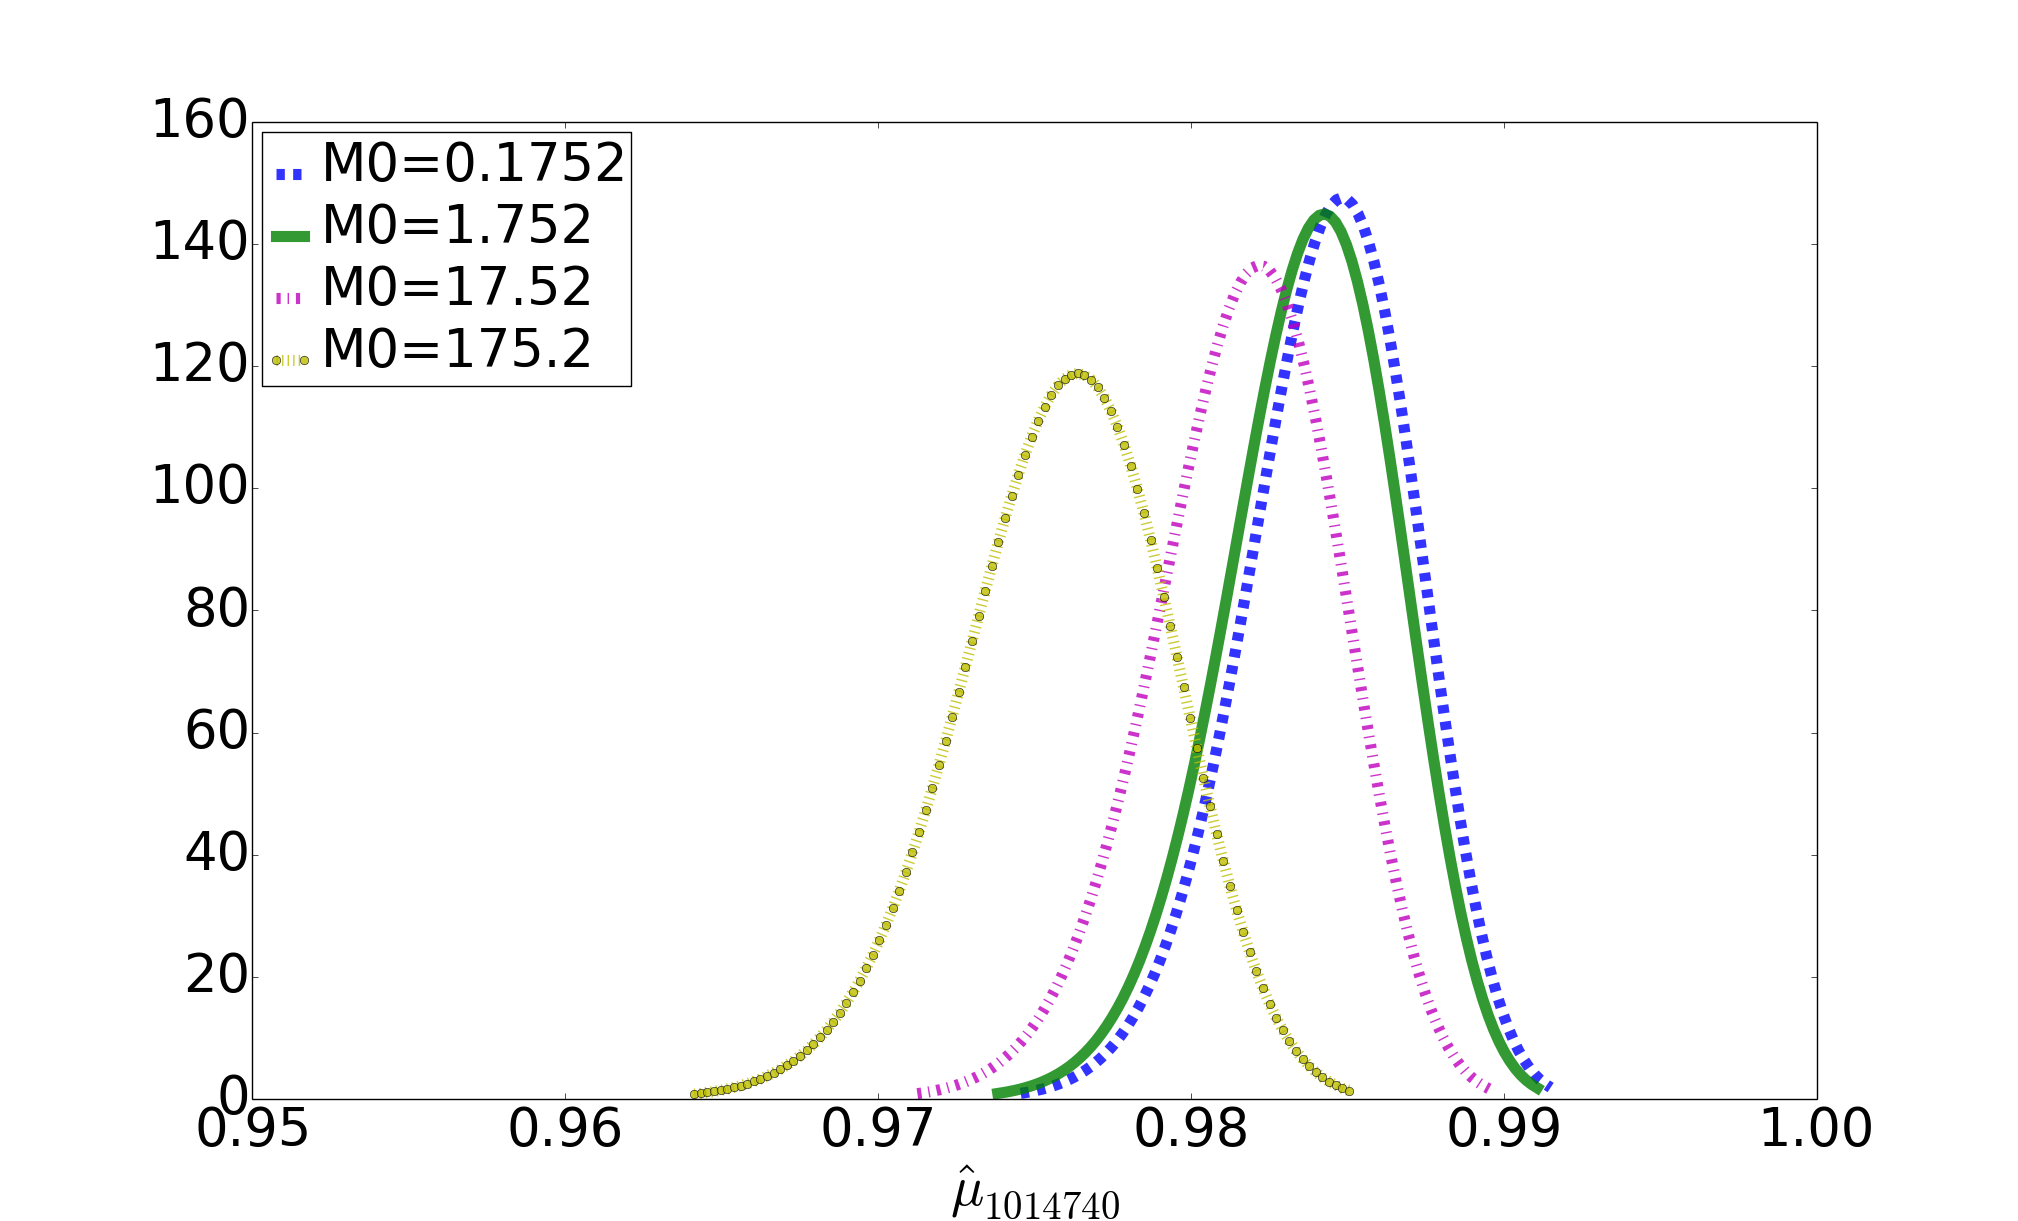
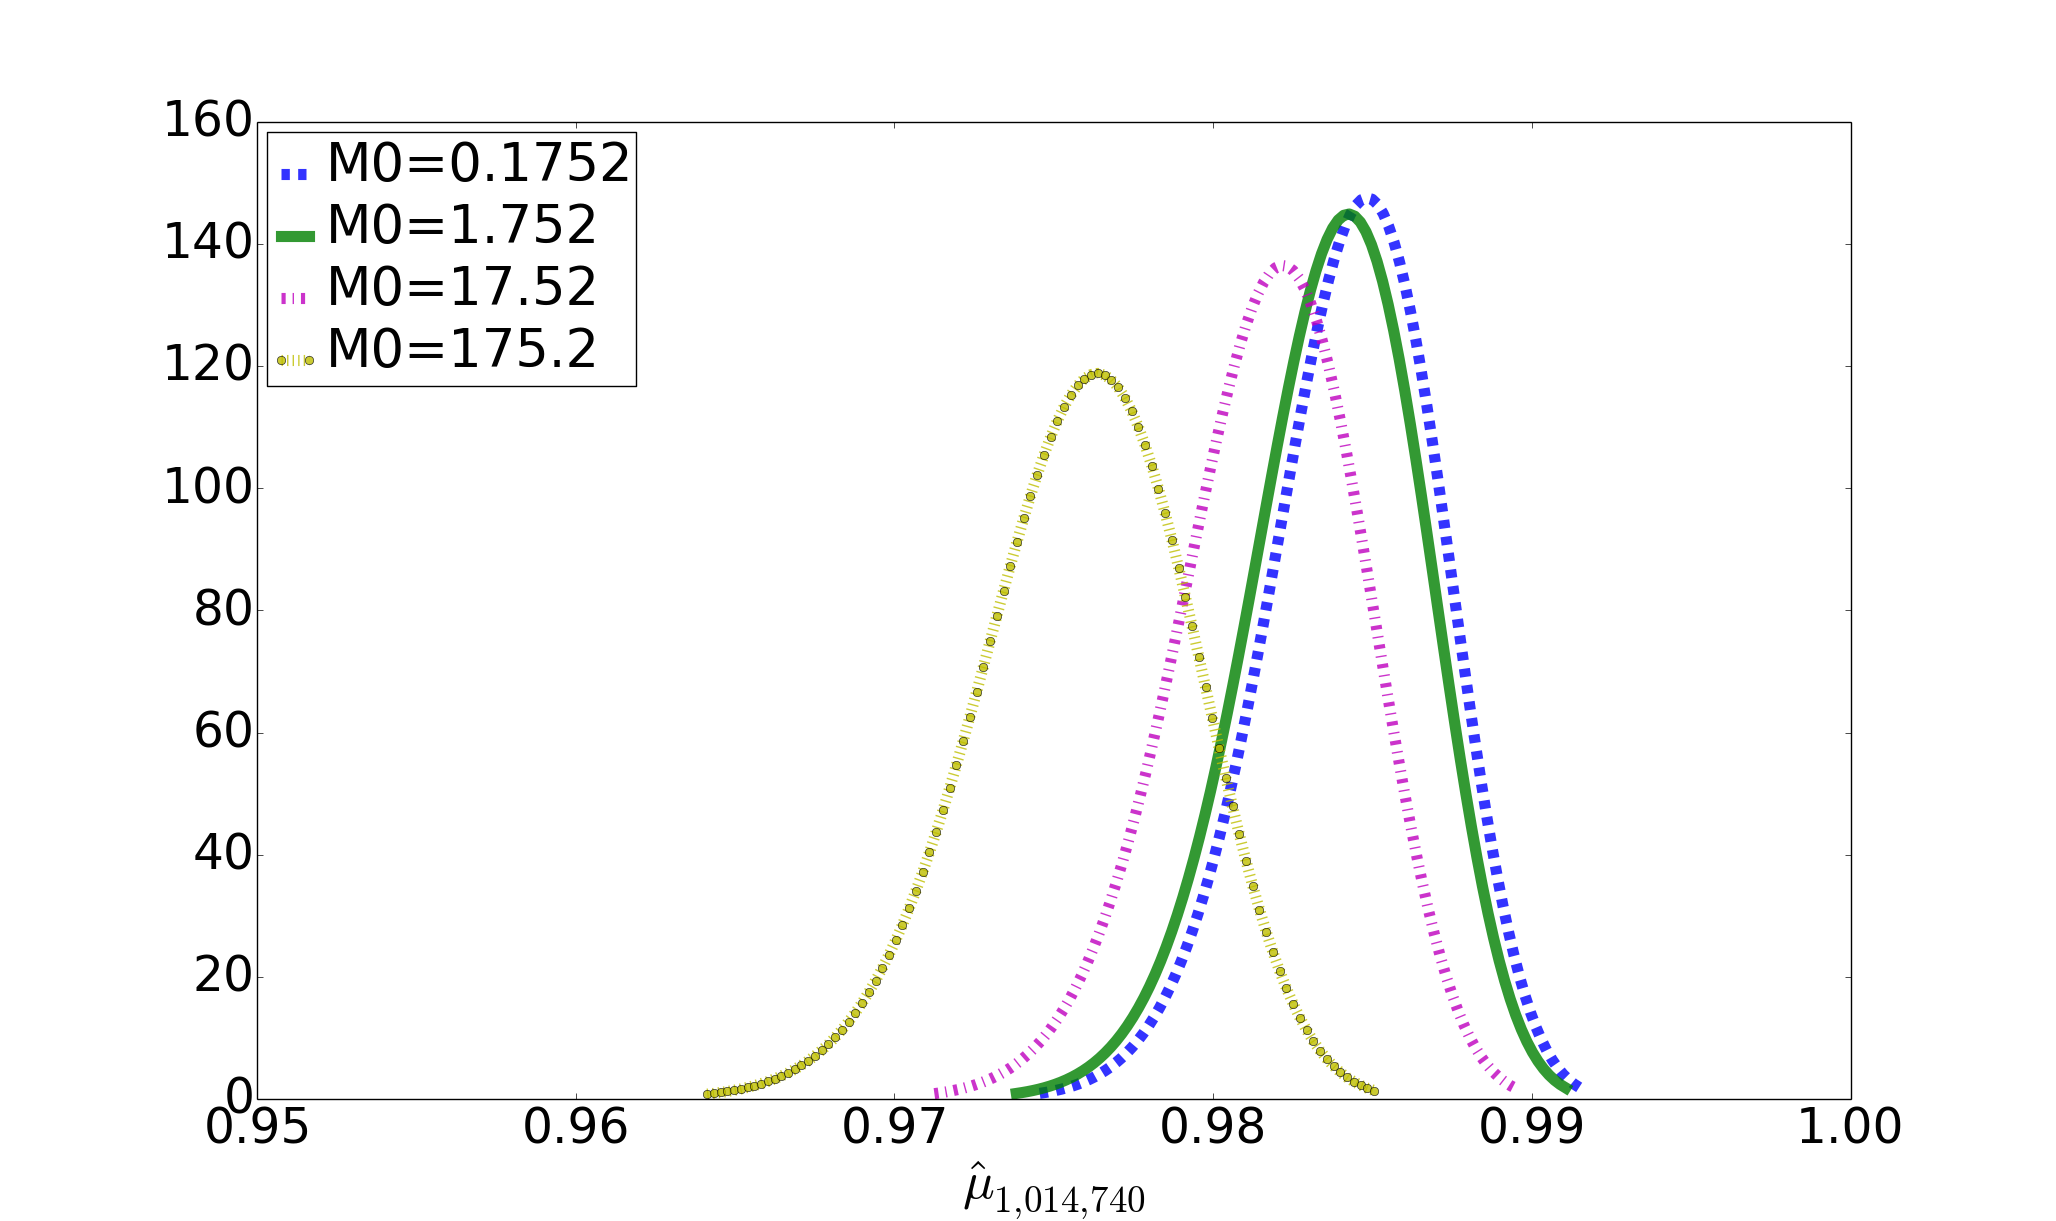
Change 1014740 to 1,014,740 in Figure 5. Fix the mistake of r_ij to r_ji.

diff --git a/doc/2016rvd3_draft/rvd3.tex b/doc/2016rvd3_draft/rvd3.tex
@@ -464,6 +464,7 @@ The variational EM algorithm has a higher specificity compared with the MCMC alg
 \begin{table}[ht]
 \centering
 \includegraphics[width=0.7\textwidth]{tables/statistics_mcmc_var.png}
+\vspace{5pt}
 \caption{Sensitivity/Specificity comparison of variational EM algorithm with the MCMC algorithm on the synthetic DNA data set.}
 \label{tbl:statistics_mcmc_var}
 \end{table}
@@ -504,7 +505,6 @@ The performance of other methods is stated in detail in \citet{he2015rvd2}.
 \centering
 \includegraphics[width=1.0\textwidth]{tables/character_all.png}
 \caption{Sensitivity/Specificity comparison of our variational RVD2 with other variant detection methods on synthetic DNA data.}
-\vspace{-5pt}
 \label{tbl:character_all}
 \end{table*}
 
@@ -527,7 +527,6 @@ Optimizing $\gamma$ in the E-step \eqref{eqn:partial_mu} and optimizing $M_j$ in
 % results are under folder \fzhang\Research\rvd3-variational-notebook\results\2015-10-21_Timing_profile_rvd3_program
 \begin{table*}[htbp]
 \centering
-\vspace{10pt}
 \includegraphics[width=1.0\textwidth]{tables/time_3089X_all_update.png}
 \caption{Timing profile of 4 significant figures for one iteration of variational EM algorithm when median read depth is $3,089\times$.
 Single and multiple processors are both tested to estimate timing. Time for optimizing $\gamma$ in the E-step and optimizing $M$ in the M-step is highlighted in percentage.}
@@ -626,45 +625,12 @@ We acknowledge Chuangqi Wang and Ross Lagoy for valuable comments on the manuscr
 \appendix
 \section{Derivation of the components in ELBO}
 \label{appendix:ELBO}
-
-%\section{Derivation of Variational Inference}
-%\subsection{Evidence Lower Bound (ELBO)}
-
 Here we derive the requisite expectations with respect to the variational distribution for the ELBO.
 %
-Recall that $r_{ij}|n_{ij}\thicksim \text{Binomial}(\theta_{ij}, n _{ji})$.
+Recall that $\theta_{ji} \thicksim \text{Beta}(\mu_j, M_j)$.
 Then we can write,
 \begin{equation}
 \begin{split}
-%\label{r}
-E_q \left[ \log p\left(r | \theta, n \right)\right] &= \sum_{j=1}^{J} \sum_{i=1}^{N} E_q  \left[ \log p \left( r_{ji} | \theta_{ji}, n_{ji} \right) \right] \\
-&= \sum_{j=1}^{J} \sum_{i=1}^{N}  E_q  \left[ \log \left( \frac{ \Gamma(n_{ji}+1) } { \Gamma(r_{ji}+1) \Gamma( n_{ji} - r_{ji} + 1 ) } \theta_{ji}^{r_{ji}} (1 - \theta_{ji})^{n_{ji} - r_{ji}} \right) \right] \\
-&= \sum_{j=1}^{J} \sum_{i=1}^{N} \log \left( \frac{ \Gamma(n_{ji}+1) } { \Gamma(r_{ji}+1) \Gamma( n_{ji} - r_{ji} + 1 ) }\right)  \\
-&\quad + \sum_{j=1}^{J} \sum_{i=1}^{N}  E_q  \left[ r_{ji} \log \theta_{ji} + (n_{ji} - r_{ji}) \log (1 - \theta_{ji}) \right] \\
-&= \sum_{j=1}^{J} \sum_{i=1}^{N} \log \left( \frac{ \Gamma(n_{ji}+1) } { \Gamma(r_{ji}+1) \Gamma( n_{ji} - r_{ji} + 1 ) }\right)  \\
-&\quad + \sum_{j=1}^{J} \sum_{i=1}^{N} \left\lbrace r_{ji} E_q \left[ \log \theta_{ji} \right] + (n_{ji} - r_{ji}) E_q  \left[  \log (1 - \theta_{ji}) \right] \right\rbrace. \\
-\end{split}
-\end{equation}
-%
-%
-Since $\mu_j \thicksim \text{Beta}(\mu_0, M_0)$,
-\begin{equation}
-\begin{split}
-%\label{mu}
-E_q \left[ \log p\left(\mu ; \mu_0, M_0 \right)\right] &= \sum_{j=1}^{J} E_q  \left[ \log p\left( \mu_j; \mu_0, M_0 \right) \right] \\
-&= \sum_{j=1}^{J} E_q  \left[ \log \left( \frac{ \Gamma(M_0) } { \Gamma(\mu_0 M_0) \Gamma(M_0 (1-\mu_0)) } \mu_j^{M_0\mu_0 -1} (1 - \mu_j)^{M_0 ( 1 - \mu_0) - 1} \right) \right] \\
-%&= \sum_{j=1}^{J} \log \frac{ \Gamma(M_0) } { \Gamma(\mu_0 M_0) \Gamma(M_0 (1-\mu_0))} \\
-%&\quad + \sum_{j=1}^{J} \left\lbrace (M_0\mu_0 -1)E_q  \left[ \log \mu_j \right] + (M_0 ( 1 - \mu_0) - 1) E_q  \left[ \log (1 - \mu_j)\right]\right\rbrace  \\
-&= J* \log \frac{ \Gamma(M_0) } { \Gamma(\mu_0 M_0) \Gamma(M_0 (1-\mu_0))} \\
-&\quad + \sum_{j=1}^{J} \left\lbrace (M_0\mu_0 -1)E_q  \left[ \log \mu_j \right] + (M_0 ( 1 - \mu_0) - 1) E_q  \left[ \log (1 - \mu_j)\right]\right\rbrace.
-\end{split}
-\end{equation}
-%
-%
-Finally, since $\theta_{ji} \thicksim \text{Beta}(\mu_j, M_j)$,
-\begin{equation}
-\begin{split}
-%\label{theta}
 E_q \left[ \log p\left(\theta | \mu; M \right)\right] &= \sum_{j=1}^{J} \sum_{i=1}^{N} E_q \left[ \log p\left(\theta_{ji} | \mu_j; M_j \right)\right] \\
 &= \sum_{j=1}^{J} \sum_{i=1}^{N}  E_q  \left[ \log \left( \frac{ \Gamma(M_j) } { \Gamma(\mu_j M_j) \Gamma(M_j (1-\mu_j)) } \theta_{ji}^{M_j\mu_j -1} (1 - \theta_{ji})^{M_j ( 1 - \mu_j) - 1} \right) \right] \\
 &= \sum_{j=1}^{J} \sum_{i=1}^{N} E_q  \left[ \log \left( \frac{ \Gamma(M_j) } { \Gamma(\mu_j M_j) \Gamma(M_j (1-\mu_j)) }\right) \right] \\
@@ -677,6 +643,31 @@ E_q \left[ \log p\left(\theta | \mu; M \right)\right] &= \sum_{j=1}^{J} \sum_{i=
 &\quad + \sum_{j=1}^{J} \sum_{i=1}^{N} \left\lbrace M_j E_q \left[ \mu_j \right] E_q \left[ \log \theta_{ji} \right] - E_q  \left[ \log \theta_{ji} \right] + \left( M_j - 1 - M_j E_q\left[ \mu_j \right]  \right) E_q\left[ \log \left( 1 - \theta_{ji}\right) \right] \right\rbrace.
 \end{split}
 \end{equation}
+%
+Since $\mu_j \thicksim \text{Beta}(\mu_0, M_0)$,
+\begin{equation}
+\begin{split}
+E_q \left[ \log p\left(\mu ; \mu_0, M_0 \right)\right] &= \sum_{j=1}^{J} E_q  \left[ \log p\left( \mu_j; \mu_0, M_0 \right) \right] \\
+&= \sum_{j=1}^{J} E_q  \left[ \log \left( \frac{ \Gamma(M_0) } { \Gamma(\mu_0 M_0) \Gamma(M_0 (1-\mu_0)) } \mu_j^{M_0\mu_0 -1} (1 - \mu_j)^{M_0 ( 1 - \mu_0) - 1} \right) \right] \\
+%&= \sum_{j=1}^{J} \log \frac{ \Gamma(M_0) } { \Gamma(\mu_0 M_0) \Gamma(M_0 (1-\mu_0))} \\
+%&\quad + \sum_{j=1}^{J} \left\lbrace (M_0\mu_0 -1)E_q  \left[ \log \mu_j \right] + (M_0 ( 1 - \mu_0) - 1) E_q  \left[ \log (1 - \mu_j)\right]\right\rbrace  \\
+&= J* \log \frac{ \Gamma(M_0) } { \Gamma(\mu_0 M_0) \Gamma(M_0 (1-\mu_0))} \\
+&\quad + \sum_{j=1}^{J} \left\lbrace (M_0\mu_0 -1)E_q  \left[ \log \mu_j \right] + (M_0 ( 1 - \mu_0) - 1) E_q  \left[ \log (1 - \mu_j)\right]\right\rbrace.
+\end{split}
+\end{equation}
+%
+Finally, since $r_{ji}|n_{ji}\thicksim \text{Binomial}(\theta_{ji}, n _{ji})$,
+\begin{equation}
+\begin{split}
+E_q \left[ \log p\left(r | \theta, n \right)\right] &= \sum_{j=1}^{J} \sum_{i=1}^{N} E_q  \left[ \log p \left( r_{ji} | \theta_{ji}, n_{ji} \right) \right] \\
+&= \sum_{j=1}^{J} \sum_{i=1}^{N}  E_q  \left[ \log \left( \frac{ \Gamma(n_{ji}+1) } { \Gamma(r_{ji}+1) \Gamma( n_{ji} - r_{ji} + 1 ) } \theta_{ji}^{r_{ji}} (1 - \theta_{ji})^{n_{ji} - r_{ji}} \right) \right] \\
+&= \sum_{j=1}^{J} \sum_{i=1}^{N} \log \left( \frac{ \Gamma(n_{ji}+1) } { \Gamma(r_{ji}+1) \Gamma( n_{ji} - r_{ji} + 1 ) }\right)  \\
+&\quad + \sum_{j=1}^{J} \sum_{i=1}^{N}  E_q  \left[ r_{ji} \log \theta_{ji} + (n_{ji} - r_{ji}) \log (1 - \theta_{ji}) \right] \\
+&= \sum_{j=1}^{J} \sum_{i=1}^{N} \log \left( \frac{ \Gamma(n_{ji}+1) } { \Gamma(r_{ji}+1) \Gamma( n_{ji} - r_{ji} + 1 ) }\right)  \\
+&\quad + \sum_{j=1}^{J} \sum_{i=1}^{N} \left\lbrace r_{ji} E_q \left[ \log \theta_{ji} \right] + (n_{ji} - r_{ji}) E_q  \left[  \log (1 - \theta_{ji}) \right] \right\rbrace. \\
+\end{split}
+\end{equation}
+
 %
 %Therefore, in order to compute ELBO, we need to compute the following expectations with respect to variational distribution:
 %

diff --git a/results/2016-03-07_Plot_influence_of_M0/plot_mu.py b/results/2016-03-07_Plot_influence_of_M0/plot_mu.py
@@ -89,10 +89,10 @@ def plot(f2HDF5Name, f1HDF5Name, f3HDF5Name, f4HDF5Name, position):
     for label in legend.get_texts():
         label.set_fontsize(38)	
 	
-    ax.set_xlabel('$\hat{\mu}_{1014740}$', fontsize = 40)
+    ax.set_xlabel('$\hat{\mu}_{1,014,740}$', fontsize = 38)
     ax.set_xlim([0.95, 1])    
-    plt.setp(plt.gca().get_xticklabels(), fontsize=38)
-    plt.setp(plt.gca().get_yticklabels(), fontsize=38)	
+    plt.setp(plt.gca().get_xticklabels(), fontsize=35)
+    plt.setp(plt.gca().get_yticklabels(), fontsize=35)	
 
     plt.show()
 
